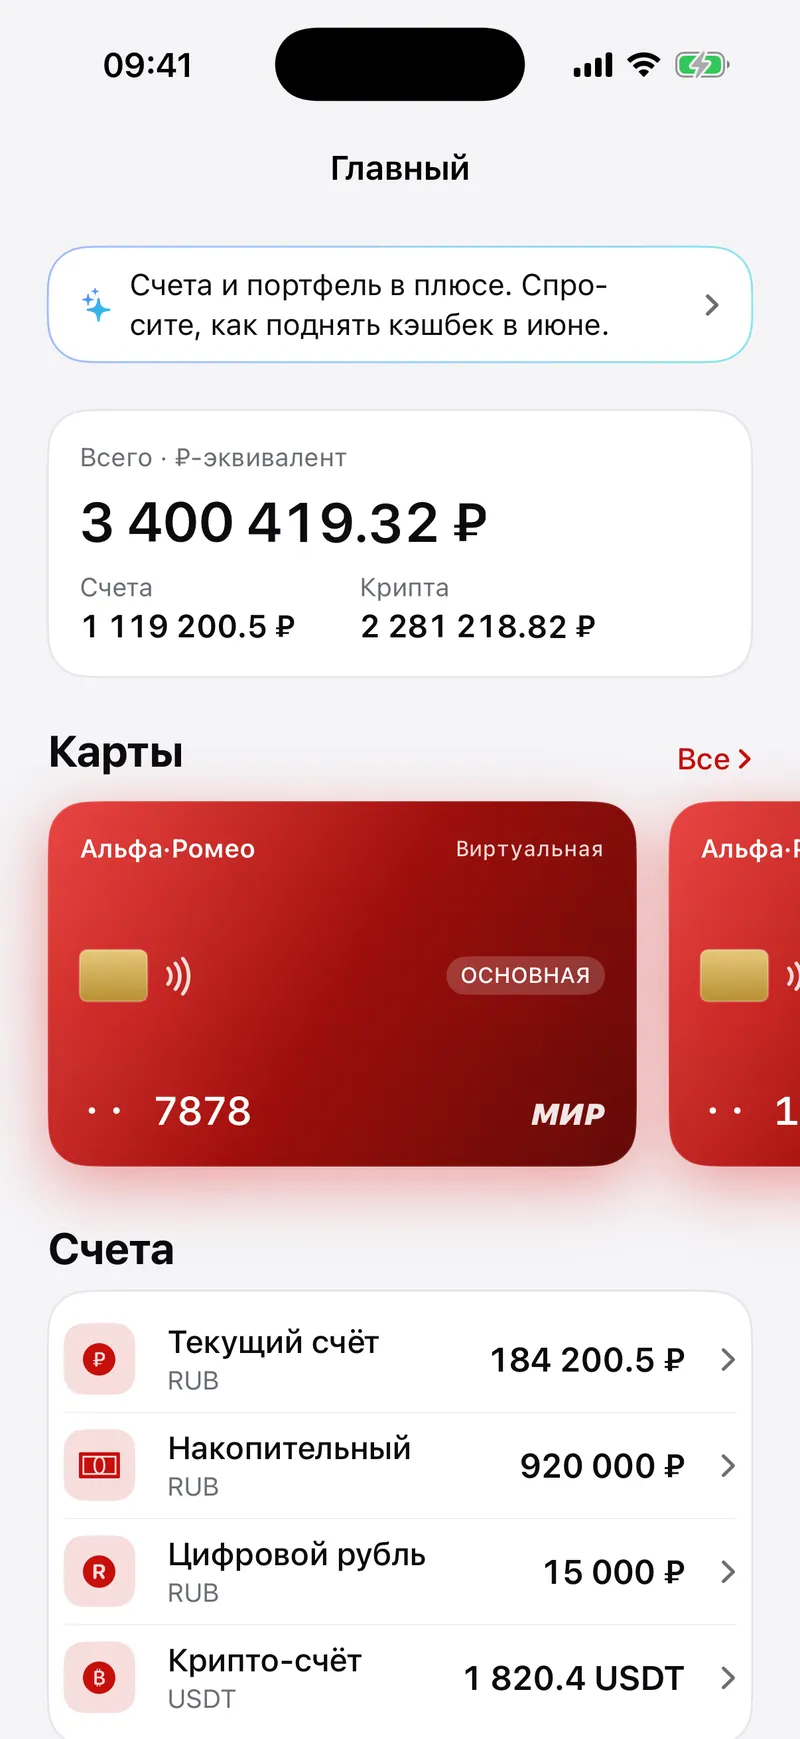
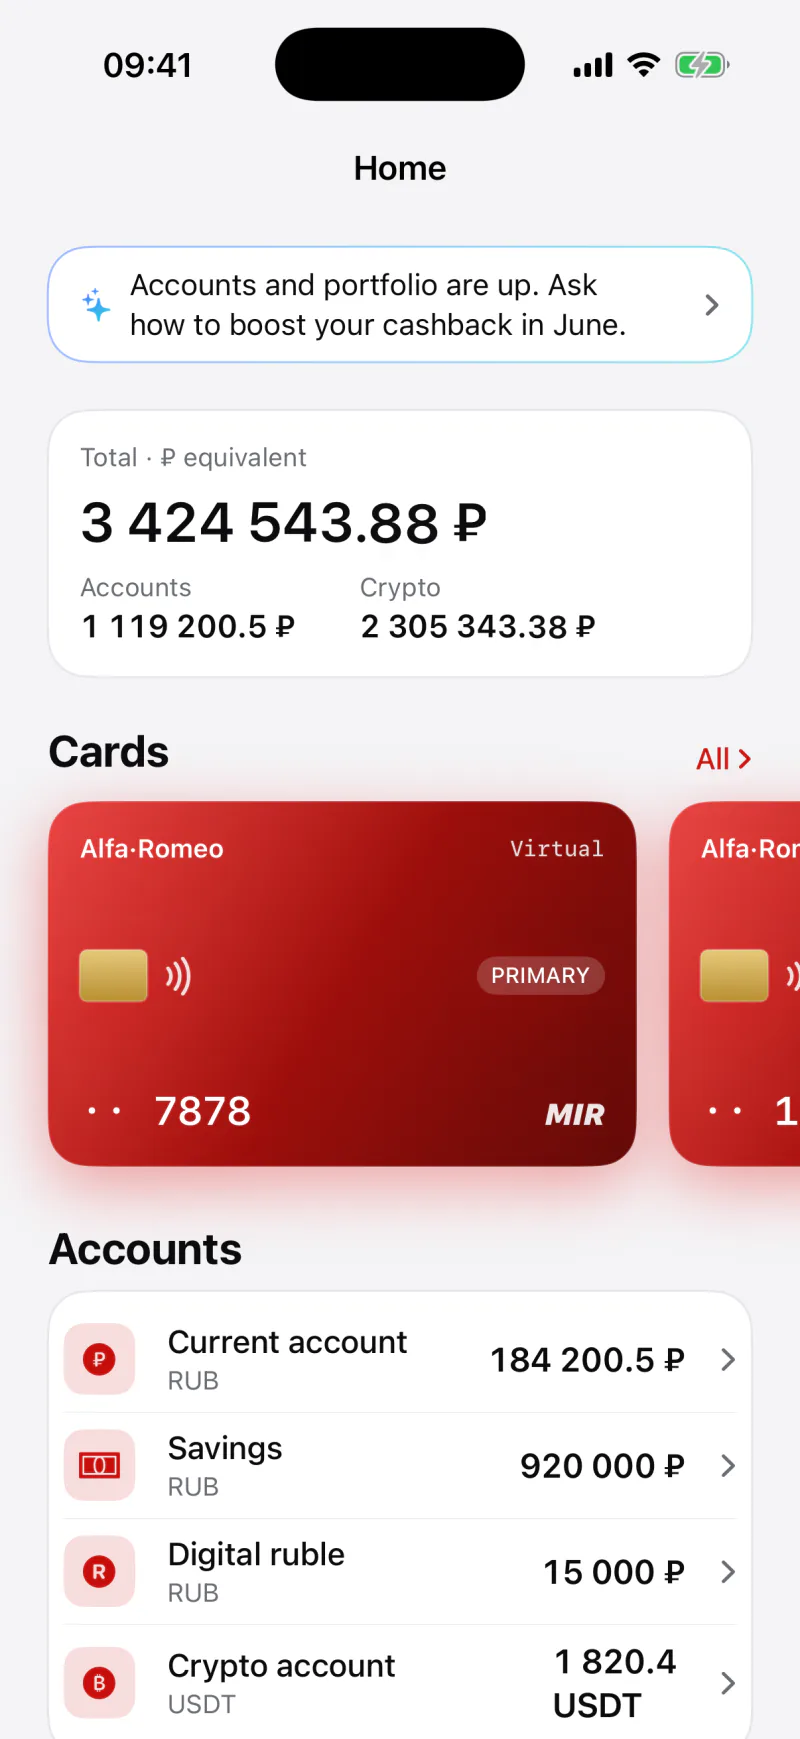
feat: prigodskii.dev on its own server, Alfa-Romeo in English, no ticker
Hosting: the site now lives at prigodskii.dev, a static nginx container
behind the Traefik already running on the Vertex MMA box. server/ holds
its compose file and nginx config; tools/deploy.sh publishes HEAD there.
Canonical, og:url, og:image, JSON-LD, sitemap and robots point at the new
domain. GitHub Pages keeps building main as a mirror.

Content: the eight Alfa-Romeo screenshots are the English build of the
same screens. Its stats say what it does (Claude as copilot, live rates,
a 90-day cash-flow forecast) instead of "4 profiles" and "0 roubles moved".

Motion: the credentials ticker is gone, with its CSS and JS. Sections with
their own surface arrive as a rounded sheet that opens to full width, not a
hard cut. The record reveals row by row as the reader reaches each one.

diff --git a/index.html b/index.html
@@ -7,12 +7,12 @@
 <meta name="description" content="Roman Prigodskii, 17, Moscow. Forecasting systems scored against the market's own closing line, and the statistics that make the claims checkable. Vertex MMA, Vertex Boxing, co-founder and Head of AI at Gluline, and two papers under review at NeurIPS 2026 workshops.">
 <meta name="author" content="Roman Prigodskii">
 <meta name="theme-color" content="#161e14">
-<link rel="canonical" href="https://romanprigodskii.github.io/">
+<link rel="canonical" href="https://prigodskii.dev/">
 <meta property="og:type" content="profile">
 <meta property="og:title" content="Roman Prigodskii">
 <meta property="og:description" content="Forecasting systems scored against the market's own closing line, and the statistics that make the claims checkable.">
-<meta property="og:url" content="https://romanprigodskii.github.io/">
-<meta property="og:image" content="https://romanprigodskii.github.io/assets/img/og.png">
+<meta property="og:url" content="https://prigodskii.dev/">
+<meta property="og:image" content="https://prigodskii.dev/assets/img/og.png">
 <meta property="og:image:width" content="1200">
 <meta property="og:image:height" content="630">
 <meta name="twitter:card" content="summary_large_image">
@@ -22,7 +22,7 @@
 <link rel="stylesheet" href="assets/css/site.css">
 <link rel="preload" as="fetch" href="assets/data/audit.json" crossorigin>
 <script type="application/ld+json">
-{"@context":"https://schema.org","@type":"Person","name":"Roman Prigodskii","url":"https://romanprigodskii.github.io/","email":"mailto:lioneldassy@gmail.com","jobTitle":"Independent researcher","nationality":"RU","address":{"@type":"PostalAddress","addressLocality":"Moscow","addressCountry":"RU"},"alumniOf":{"@type":"EducationalOrganization","name":"Letovo School"},"sameAs":["https://github.com/romanprigodskii","https://t.me/prigodskii","https://vertexmma.com","https://gluline.com"],"knowsAbout":["Empirical market efficiency","E-values and anytime-valid inference","Gradient boosting","Forecast calibration","Software engineering"]}
+{"@context":"https://schema.org","@type":"Person","name":"Roman Prigodskii","url":"https://prigodskii.dev/","email":"mailto:lioneldassy@gmail.com","jobTitle":"Independent researcher","nationality":"RU","address":{"@type":"PostalAddress","addressLocality":"Moscow","addressCountry":"RU"},"alumniOf":{"@type":"EducationalOrganization","name":"Letovo School"},"sameAs":["https://github.com/romanprigodskii","https://t.me/prigodskii","https://vertexmma.com","https://gluline.com"],"knowsAbout":["Empirical market efficiency","E-values and anytime-valid inference","Gradient boosting","Forecast calibration","Software engineering"]}
 </script>
 <script>(function(d){d.classList.add("js");setTimeout(function(){if(!window.rpMotion){d.classList.add("no-motion");}},3500);try{var q=new URLSearchParams(location.search).get("palette"),ok=/^(graphite|moss|cobalt)$/;if(q&&ok.test(q)){sessionStorage.setItem("rp-palette",q)}else{q=sessionStorage.getItem("rp-palette")}if(q&&ok.test(q))d.dataset.palette=q;var t=localStorage.getItem("rp-theme");if(t==="paper"||t==="slate")d.dataset.theme=t;if(sessionStorage.getItem("rp-wipe")){sessionStorage.removeItem("rp-wipe");d.classList.add("wipe-in");}}catch(e){}})(document.documentElement);</script>
 </head>
@@ -124,20 +124,6 @@
     </div>
   </div>
 </section>
-
-<!-- ═══ 02 TICKER ═══ -->
-<div class="ticker" aria-hidden="true">
-  <div class="ticker__track">
-    <span>Moscow Olympiad in Economics, first in Grade 10</span><i>◆</i>
-    <span>0.7244 AUC on 664 held-out UFC bouts</span><i>◆</i>
-    <span>Co-founder and Head of AI, Gluline</span><i>◆</i>
-    <span>8,906 bouts modelled</span><i>◆</i>
-    <span>Vertex Boxing: a post-bell leak caught and removed</span><i>◆</i>
-    <span>Two papers under review</span><i>◆</i>
-    <span>Seventeen</span><i>◆</i>
-  </div>
-</div>
-<p class="u-sr">Moscow Olympiad in Economics, first in Grade 10. 0.7244 AUC on 664 held-out UFC bouts. Co-founder and Head of AI, Gluline. 8,906 bouts modelled. Vertex Boxing: a post-bell leak caught and removed. Two papers under review. Seventeen.</p>
 
 <!-- ═══ 03 STATEMENT ═══ -->
 <section class="stmt" id="position" data-nav="Position">
@@ -281,8 +267,8 @@
           <h3 class="panel__name"><a class="panel__open" href="#case-alfaromeo" aria-haspopup="dialog">Alfa-Romeo</a></h3>
           <p class="panel__line">Built on an internship at Alfa-Bank: the bank of 2035, nine years early</p>
           <dl class="panel__nums">
-            <div><dt>profiles, one passport</dt><dd>4</dd></div>
-            <div><dt>real roubles moved</dt><dd>0</dd></div>
+            <div><dt>copilot</dt><dd>Claude</dd></div>
+            <div><dt>rouble and crypto rates</dt><dd>live</dd></div>
           </dl>
           <span class="panel__cta" aria-hidden="true"><span class="roll">Open the case</span></span>
         </div>
@@ -539,10 +525,10 @@
     </div>
     <p class="case__phones-note">The demo as it runs. Every name, balance and date on these screens is demo data.</p>
     <dl class="case__nums">
-      <div><dt>profiles on one passport</dt><dd data-count="4">4</dd></div>
       <div><dt>rouble and crypto rates</dt><dd>live</dd></div>
+      <div><dt>copilot, acting only on a yes</dt><dd>Claude</dd></div>
       <div><dt>signatures on a large business payment</dt><dd>2 of N</dd></div>
-      <div><dt>real roubles moved</dt><dd>0</dd></div>
+      <div><dt>AI accountant's cash-flow forecast</dt><dd>90 days</dd></div>
     </dl>
     <div class="case__body">
       <section>
@@ -620,7 +606,7 @@
       exists, on the principle that a protocol can be checked by a stranger. Links to each on request.</p>
   </div>
 
-  <div class="ledger reveal">
+  <div class="ledger">
     <h3 class="ledger__h">Economics</h3>
     <ul role="list" class="ledger__rows">
       <li class="ledger__row is-top">

diff --git a/assets/css/site.css b/assets/css/site.css
@@ -242,6 +242,25 @@ body {
 
 section[data-surface] { line-height: calc(1.6 + var(--lh-bump)); }
 
+/* a change of surface arrives as a sheet, not a cut: the section comes up inset
+   with rounded corners and is full width by the time its edge reaches the middle
+   of the screen, which is where the section indicator changes colour with it.
+   It closes the same way on the way out. Without scroll timelines, or with
+   reduced motion, the edges stay straight */
+@supports (animation-timeline: view()) {
+  @media (prefers-reduced-motion: no-preference) {
+    .sec[data-surface] {
+      animation: sheet linear both;
+      animation-timeline: view();
+    }
+  }
+}
+@keyframes sheet {
+  entry 0%            { clip-path: inset(0 clamp(12px, 4vw, 64px) round clamp(20px, 3vw, 44px)); }
+  entry 50%, exit 50% { clip-path: inset(0 0 round 0); }
+  exit 100%           { clip-path: inset(0 clamp(12px, 4vw, 64px) round clamp(20px, 3vw, 44px)); }
+}
+
 h1, h2, h3, h4 { margin: 0; text-wrap: balance; }
 p { margin: 0; text-wrap: pretty; }
 ul, ol { margin: 0; padding: 0; list-style: none; }
@@ -741,6 +760,39 @@ code {
   .ledger__ev { text-align: right; }
 }
 
+/* the record reads in row by row, each as the reader reaches it: the rule draws
+   across, and the rank, the line and the evidence follow it from the left. Only
+   on screen, with motion allowed and the motion layer loaded; everywhere else
+   (print, reduced motion, the no-motion failsafe) the rows simply stand */
+@media screen and (prefers-reduced-motion: no-preference) {
+  html.js:not(.no-motion) .ledger__h,
+  html.js:not(.no-motion) .ledger__row { position: relative; border-bottom-color: transparent; }
+  html.js:not(.no-motion) .ledger__h::after,
+  html.js:not(.no-motion) .ledger__row::after {
+    content: "";
+    position: absolute;
+    inset: auto 0 -1px;
+    height: 1px;
+    background: var(--rule);
+    transform: scaleX(0);
+    transform-origin: left;
+    transition: transform 1100ms var(--ease-expo);
+  }
+  html.js:not(.no-motion) .ledger__h::after { bottom: -2px; height: 2px; background: var(--ink); transition-delay: 120ms; }
+  html.js:not(.no-motion) .ledger__h,
+  html.js:not(.no-motion) .ledger__row > * {
+    opacity: 0;
+    transform: translateX(-1.5rem);
+    transition: opacity 900ms var(--ease-expo), transform 900ms var(--ease-expo);
+  }
+  html.js:not(.no-motion) .ledger__row > :nth-child(2) { transition-delay: 90ms; }
+  html.js:not(.no-motion) .ledger__row > :nth-child(3) { transition-delay: 180ms; }
+  html.js:not(.no-motion) .ledger__h.is-in,
+  html.js:not(.no-motion) .ledger__row.is-in > * { opacity: 1; transform: none; }
+  html.js:not(.no-motion) .ledger__h.is-in::after,
+  html.js:not(.no-motion) .ledger__row.is-in::after { transform: none; }
+}
+
 /* ============================================================
    METHOD
    ============================================================ */
@@ -1157,50 +1209,6 @@ html.wipe-out .wipe {
 @media (max-width: 899px), (orientation: portrait) {
   .hero__caption { grid-column: 1 / -1; justify-self: start; text-align: left; max-width: 52ch; }
 }
-
-/* ============================================================
-   TICKER
-   ============================================================ */
-.ticker {
-  display: flex;
-  overflow: hidden;
-  background: var(--bg-sunk);
-  border-block: 1px solid var(--rule);
-  user-select: none;
-}
-.ticker__track {
-  display: flex; align-items: center;
-  flex: 0 0 auto;
-  gap: clamp(1.4rem, 3vw, 2.6rem);
-  padding: clamp(0.8rem, 1.8vw, 1.3rem) 0;
-  padding-right: clamp(1.4rem, 3vw, 2.6rem);
-  white-space: nowrap;
-  animation: tickerRun 42s linear infinite;
-}
-@keyframes tickerRun { to { transform: translateX(-100%); } }
-.ticker:hover .ticker__track { animation-play-state: paused; }
-.ticker.is-driven .ticker__track { animation: none; will-change: transform; }
-.ticker span {
-  font-size: clamp(1rem, 2.1vw, 1.65rem);
-  font-stretch: 104%;
-  font-weight: 620;
-  letter-spacing: -0.015em;
-  color: var(--ink-2);
-}
-.ticker i { color: var(--accent); font-style: normal; font-size: 0.7em; }
-.ticker--foot {
-  margin-top: clamp(3rem, 8vw, 6rem);
-  background: transparent;
-  border-color: var(--rule);
-}
-.ticker--foot span {
-  color: var(--ink);
-  font-weight: 760;
-  font-stretch: 110%;
-  font-size: clamp(1.6rem, 5vw, 3.6rem);
-  letter-spacing: -0.03em;
-}
-.ticker--foot .ticker__track { animation-duration: 26s; }
 
 /* ============================================================
    STATEMENT

diff --git a/research/index.html b/research/index.html
@@ -7,19 +7,19 @@
 <meta name="description" content="Two sole-authored papers under review at NeurIPS 2026 workshops: an e-value audit of 84 pre-registered market-efficiency hypotheses, and detection floors for model selection and LLM judges.">
 <meta name="author" content="Roman Prigodskii">
 <meta name="theme-color" content="#161e14">
-<link rel="canonical" href="https://romanprigodskii.github.io/research/">
+<link rel="canonical" href="https://prigodskii.dev/research/">
 <meta property="og:type" content="article">
 <meta property="og:title" content="Research, Roman Prigodskii">
 <meta property="og:description" content="An e-value audit where the gambler is not a metaphor, and a protocol for measuring what an evaluation could have detected.">
-<meta property="og:url" content="https://romanprigodskii.github.io/research/">
-<meta property="og:image" content="https://romanprigodskii.github.io/assets/img/og.png">
+<meta property="og:url" content="https://prigodskii.dev/research/">
+<meta property="og:image" content="https://prigodskii.dev/assets/img/og.png">
 <meta name="twitter:card" content="summary_large_image">
 <link rel="icon" href="../assets/img/mark.svg" type="image/svg+xml">
 <link rel="preload" as="font" type="font/woff2" href="../assets/fonts/archivo-latin.woff2" crossorigin>
 <link rel="stylesheet" href="../assets/css/site.css">
 <link rel="preload" as="fetch" href="../assets/data/audit.json" crossorigin>
 <script type="application/ld+json">
-{"@context":"https://schema.org","@type":"CollectionPage","name":"Research, Roman Prigodskii","url":"https://romanprigodskii.github.io/research/","author":{"@type":"Person","name":"Roman Prigodskii"},"hasPart":[{"@type":"ScholarlyArticle","name":"Testing by betting when the bets are real: an e-value audit of 84 pre-registered market-efficiency hypotheses","author":{"@type":"Person","name":"Roman Prigodskii"},"url":"https://romanprigodskii.github.io/papers/evalues.pdf","creativeWorkStatus":"Under review"},{"@type":"ScholarlyArticle","name":"Measure the instrument first: detection floors for model selection and for LLM judges","author":{"@type":"Person","name":"Roman Prigodskii"},"url":"https://romanprigodskii.github.io/papers/tae.pdf","creativeWorkStatus":"Under review"}]}
+{"@context":"https://schema.org","@type":"CollectionPage","name":"Research, Roman Prigodskii","url":"https://prigodskii.dev/research/","author":{"@type":"Person","name":"Roman Prigodskii"},"hasPart":[{"@type":"ScholarlyArticle","name":"Testing by betting when the bets are real: an e-value audit of 84 pre-registered market-efficiency hypotheses","author":{"@type":"Person","name":"Roman Prigodskii"},"url":"https://prigodskii.dev/papers/evalues.pdf","creativeWorkStatus":"Under review"},{"@type":"ScholarlyArticle","name":"Measure the instrument first: detection floors for model selection and for LLM judges","author":{"@type":"Person","name":"Roman Prigodskii"},"url":"https://prigodskii.dev/papers/tae.pdf","creativeWorkStatus":"Under review"}]}
 </script>
 <script>(function(d){d.classList.add("js");setTimeout(function(){if(!window.rpMotion){d.classList.add("no-motion");}},3500);try{var q=new URLSearchParams(location.search).get("palette"),ok=/^(graphite|moss|cobalt)$/;if(q&&ok.test(q)){sessionStorage.setItem("rp-palette",q)}else{q=sessionStorage.getItem("rp-palette")}if(q&&ok.test(q))d.dataset.palette=q;var t=localStorage.getItem("rp-theme");if(t==="paper"||t==="slate")d.dataset.theme=t;if(sessionStorage.getItem("rp-wipe")){sessionStorage.removeItem("rp-wipe");d.classList.add("wipe-in");}}catch(e){}})(document.documentElement);</script>
 </head>

diff --git a/assets/js/motion.js b/assets/js/motion.js
@@ -41,7 +41,7 @@
      --------------------------------------------------------------- */
   var measures = [], reads = [], writes = [], frames = [];
   var Y = w.scrollY, VH = w.innerHeight, VW = w.innerWidth;
-  var vel = 0, dir = 1, moved = true, needMeasure = true, lastT = 0;
+  var vel = 0, moved = true, needMeasure = true, lastT = 0;
 
   function measure() {
     VH = w.innerHeight; VW = w.innerWidth;
@@ -67,7 +67,7 @@
     if (lenis) lenis.raf(t);
     if (needMeasure) { needMeasure = false; measure(); }
     var ny = w.scrollY, dy = ny - Y, i;
-    if (dy !== 0) { moved = true; if (Math.abs(dy) > 0.5) dir = dy > 0 ? 1 : -1; }
+    if (dy !== 0) moved = true;
     vel += (dy / dt - vel) * 0.2;
     if (Math.abs(vel) < 0.01) vel = 0;
     Y = ny;
@@ -283,7 +283,7 @@
      Reveals. The entrance waits for the typeface, briefly, so the name
      does not rise in a fallback face and then jump when Archivo lands.
      --------------------------------------------------------------- */
-  var revealables = all("[data-split], .reveal, .rise");
+  var revealables = all("[data-split], .reveal, .rise, .ledger__h, .ledger__row");
   function startReveals() {
     if (!("IntersectionObserver" in w) || reduced) {
       revealables.forEach(function (n) { n.classList.add("is-in"); });
@@ -359,36 +359,6 @@
       }
     });
   })();
-
-  /* ---------------------------------------------------------------
-     Tickers follow the scroll: direction flips with it, speed rises
-     with it
-     --------------------------------------------------------------- */
-  all(".ticker").forEach(function (tk) {
-    var track = tk.querySelector(".ticker__track");
-    if (!track) return;
-    var one = track.scrollWidth || 1;
-    var copies = Math.min(8, Math.ceil((w.innerWidth * 1.5) / one));
-    if (copies > 1) track.innerHTML = new Array(copies + 1).join(track.innerHTML);
-    var clone = track.cloneNode(true);
-    clone.setAttribute("aria-hidden", "true");
-    tk.appendChild(clone);
-    if (reduced) return;
-    tk.classList.add("is-driven");
-    var x = 0, width = 0, visible = true;
-    if ("IntersectionObserver" in w) new IntersectionObserver(function (e) { visible = e[0].isIntersecting; }).observe(tk);
-    w.rpOnMeasure(function () { width = track.offsetWidth; });
-    w.rpOnFrame(function (t, dt) {
-      if (!visible || !width) return;
-      var speed = 0.55 + Math.min(Math.abs(vel) * 0.18, 9);
-      x -= speed * dir * dt;
-      if (x <= -width) x += width;
-      if (x > 0) x -= width;
-      var tf = "translate3d(" + x.toFixed(2) + "px,0,0)";
-      track.style.transform = tf;
-      clone.style.transform = tf;
-    });
-  });
 
   /* ---------------------------------------------------------------
      The work filmstrip. Vertical scroll drives horizontal travel, a

diff --git a/plain/index.html b/plain/index.html
@@ -6,7 +6,7 @@
 <title>Roman Prigodskii, plain version</title>
 <meta name="description" content="Roman Prigodskii: a plain, printable record. Letovo School, Moscow Olympiad in Economics winner, four shipped systems, two papers under review at NeurIPS 2026 workshops.">
 <meta name="robots" content="index,follow">
-<link rel="canonical" href="https://romanprigodskii.github.io/plain/">
+<link rel="canonical" href="https://prigodskii.dev/plain/">
 <link rel="icon" href="../assets/img/mark.svg" type="image/svg+xml">
 <meta name="theme-color" content="#f2eee2">
 <link rel="preload" as="font" type="font/woff2" href="../assets/fonts/archivo-latin.woff2" crossorigin>

diff --git a/assets/js/charts.js b/assets/js/charts.js
@@ -1,4 +1,4 @@
-/* Charts for romanprigodskii.github.io
+/* Charts for prigodskii.dev
    Every series here is read from assets/data/audit.json, which is generated
    from the numbers files the two papers were compiled against. Nothing is
    invented for decoration. */

diff --git a/README.md b/README.md
@@ -1,15 +1,15 @@
-# romanprigodskii.github.io
+# prigodskii.dev
 
 My personal site. Two versions of the same record:
 
 | | |
 |---|---|
-| **[/](https://romanprigodskii.github.io/)** | the front page: a scroll-driven read, with the work as a pinned horizontal filmstrip |
-| **[/research/](https://romanprigodskii.github.io/research/)** | both papers in full, with the charts that carry their results |
-| **[/plain/](https://romanprigodskii.github.io/plain/)** | one self-contained file, no JavaScript, prints cleanly to A4 |
+| **[/](https://prigodskii.dev/)** | the front page: a scroll-driven read, with the work as a pinned horizontal filmstrip |
+| **[/research/](https://prigodskii.dev/research/)** | both papers in full, with the charts that carry their results |
+| **[/plain/](https://prigodskii.dev/plain/)** | one self-contained file, no JavaScript, prints cleanly to A4 |
 
 No framework, no build step, no dependencies. Static HTML, CSS and vanilla JS,
-served by GitHub Pages from `main`.
+served by nginx on my own server (see [Deploying](#deploying)).
 
 ## Why the charts are real
 
@@ -42,6 +42,8 @@ assets/img/work/            product screenshots, WebP at 900 and 1600 wide
 papers/                     the three submitted PDFs
 tools/build_data.py         regenerates assets/data/audit.json
 tools/palettes.py           the three palettes, with a contrast check for every pair
+tools/deploy.sh             publishes HEAD to prigodskii.dev
+server/                     the nginx container and its Traefik routing, as it runs on the server
 DESIGN.md                   the design system and why it looks like this
 ```
 
@@ -71,12 +73,21 @@ Any static server:
 python3 -m http.server 8777
 ```
 
-## Using a custom domain later
+## Deploying
 
-Add a `CNAME` file at the repository root containing the bare domain, point an
-`ALIAS`/`ANAME` (or four `A` records) at GitHub Pages, then update the absolute
-URLs in `index.html` (canonical, `og:url`, `og:image`), `plain/index.html`,
-`robots.txt` and `sitemap.xml`.
+```bash
+tools/deploy.sh
+```
+
+It publishes the last commit, not the working tree: the pages and what they
+load go to `/opt/prigodskii-site/html` on the server, and `server/` goes next to
+them. There the site is a small nginx container behind the server's Traefik,
+which holds the Let's Encrypt certificate and sends `www` to the bare domain.
+DNS is on Cloudflare, both records set to "DNS only", since Traefik renews the
+certificate over plain HTTP.
+
+GitHub Pages still builds `main` at romanprigodskii.github.io; every page there
+names prigodskii.dev as canonical.
 
 ## Licence
 

diff --git a/DESIGN.md b/DESIGN.md
@@ -18,9 +18,9 @@ contrast-checked by the script before it ships.
 
 ## Shape
 
-The front page is one scroll with five gears: a hero that is mostly the name, a
-ticker, a statement that lights word by word as it passes, the work as a pinned
-horizontal filmstrip, and a research teaser that hands off to its own page. The
+The front page is one scroll with four gears: a hero that is mostly the name, a
+statement that lights word by word as it passes, the work as a pinned horizontal
+filmstrip, and a research teaser that hands off to its own page. The
 papers used to sit in the middle of the front page, which made a visitor read a
 statistics abstract before they knew who they were reading. They now live at
 `/research/`, where there is room for them.
@@ -102,7 +102,6 @@ Effects, and what each is for:
 |---|---|
 | intro counter | counts to 84, the number of hypotheses the page is about. Once per session, skippable, gone under reduced motion |
 | word masking | headings and ledes rise word by word. Split at text-node level, so nested links survive |
-| ticker | the credentials, moving, so the fold is not the only place they appear |
 | scroll-lit statement | words go from muted to full as the paragraph passes the middle of the screen |
 | pinned filmstrip | vertical scroll drives horizontal travel through five project panels; below 900px it is a plain vertical list |
 | stacking method cards | the five rules stack on each other, so the section is read as one idea |
